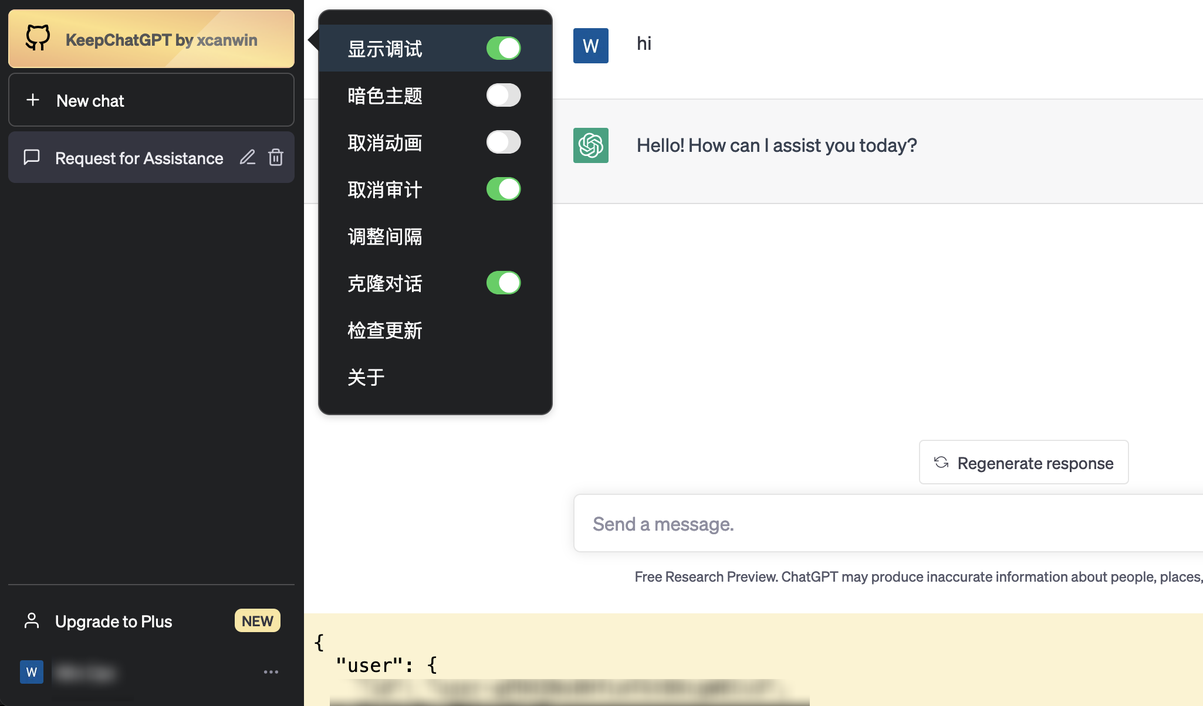
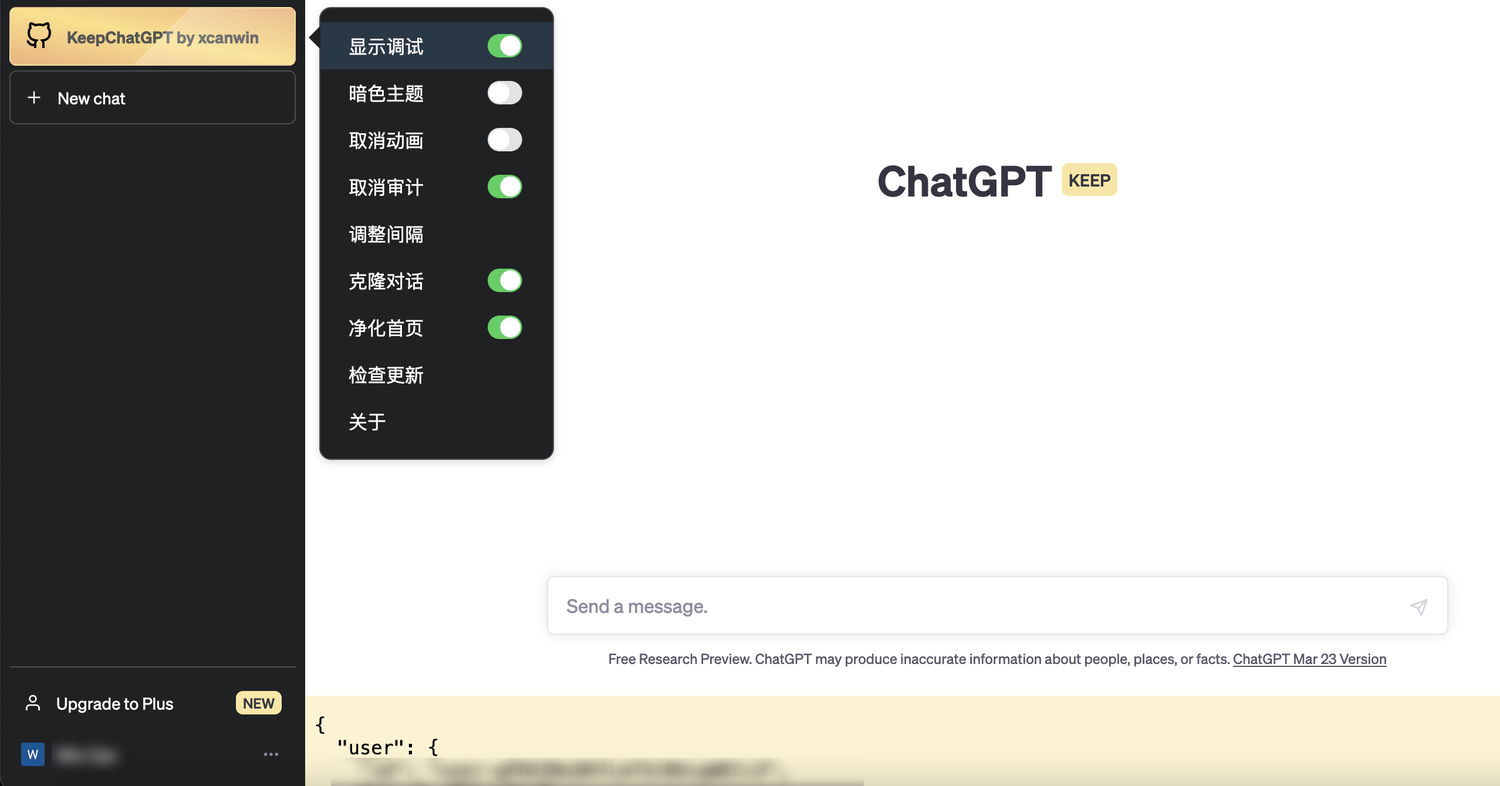
新增创新功能：净化首页

diff --git a/KeepChatGPT.user.js b/KeepChatGPT.user.js
@@ -1,7 +1,7 @@
 // ==UserScript==
 // @name              KeepChatGPT
 // @description       ChatGPT畅聊插件。解决所有报错，让我们的AI体验无比顺畅、丝滑、高效。持续更新的增强功能，如取消审计等。解决的报错如下: (1) NetworkError when attempting to fetch resource. (2) Something went wrong. If this issue persists please contact us through our help center at help.openai.com. (3) Conversation not found. (4) This content may violate our content policy.
-// @version           11.0
+// @version           11.1
 // @author            xcanwin
 // @namespace         https://github.com/xcanwin/KeepChatGPT/
 // @supportURL        https://github.com/xcanwin/KeepChatGPT/
@@ -64,43 +64,43 @@
     const getLang = function() {
         let lang = `
 {
-    "index": {"暗色主题": "dm", "显示调试": "sd", "取消审计": "cm", "取消动画": "ca", "关于": "ab", "建议间隔30秒": "si", "调整间隔": "mi", "检查更新": "cu", "当前版本": "cv", "发现最新版": "dl", "已是最新版": "lv", "克隆对话": "cc"},
+    "index": {"暗色主题": "dm", "显示调试": "sd", "取消审计": "cm", "取消动画": "ca", "关于": "ab", "建议间隔30秒": "si", "调整间隔": "mi", "检查更新": "cu", "当前版本": "cv", "发现最新版": "dl", "已是最新版": "lv", "克隆对话": "cc", "净化首页": "ch"},
     "local": {
-"ar": {"dm": "الوضع الداكن", "sd": "إظهار التصحيح", "cm": "إلغاء التدقيق", "ca": "إلغاء الرسوم المتحركة", "ab": "حول", "si": "اقتراح فاصل زمني 30 ثانية", "mi": "تعديل الفاصل", "cu": "التحقق من التحديثات", "cv": "الإصدار الحالي", "dl": "اكتشف أحدث إصدار", "lv": "أحدث إصدار", "cc": "استنساخ المحادثة"},
-"bg": {"dm": "Тъмна тема", "sd": "Показване на отстраняване на грешки", "cm": "Отказ от одит", "ca": "Отмяна на анимацията", "ab": "За", "si": "Предложете интервал от 30 секунди", "mi": "Промяна на интервала", "cu": "Проверка на актуализации", "cc": "Клониране на разговора"},
-"cs": {"dm": "Tmavý režim", "sd": "Zobrazit ladění", "cm": "Zrušení auditu", "ca": "Zrušit animaci", "ab": "O", "si": "Navrhnout interval 30 sekund", "mi": "Upravit interval", "cu": "Kontrola aktualizací", "cc": "Klonovat konverzaci"},
-"da": {"dm": "Mørk tilstand", "sd": "Vis fejlfinding", "cm": "Annuller revision", "ca": "Annuller animation", "ab": "Om", "si": "Forslag interval på 30 sekunder", "mi": "Ændre interval", "cu": "Tjek for opdateringer", "cc": "Klon samtalen"},
-"de": {"dm": "Dunkler Modus", "sd": "Fehlerbehebung anzeigen", "cm": "Prüfung abbrechen", "ca": "Animation abbrechen", "ab": "Über", "si": "Vorschlag für Intervall von 30 Sekunden", "mi": "Intervall bearbeiten", "cu": "Überprüfung auf Updates", "cv": "Aktuelle Version", "dl": "Entdecken Sie die neueste Version", "lv": "ist die neueste Version", "cc": "Konversation klonen"},
-"el": {"dm": "Σκοτεινή θεματολογία", "sd": "Εμφάνιση αποσφαλμάτωσης", "cm": "Ακύρωση ελέγχου", "ca": "Ακύρωση κινούμενων σχεδίων", "ab": "Σχετικά με", "si": "Προτείνετε διάστημα 30 δευτερολέπτων", "mi": "Τροποποίηση διαστήματος", "cu": "Έλεγχος ενημερώσεων", "cc": "Κλωνοποίηση συνομιλίας"},
-"en": {"dm": "Dark mode", "sd": "Show debugging", "cm": "Cancel audit", "ca": "Cancel animation", "ab": "About", "si": "Suggest interval of 30 seconds; The author usually sets 150", "mi": "Modify interval", "cu": "Check for updates", "cv": "Current version", "dl": "Discover the latest version", "lv": "is the latest version", "cc": "Clone conversation"},
-"eo": {"dm": "Malhela moduso", "sd": "Montri depuradon", "cm": "Nuligi kontroli", "ca": "Nuligi animacion", "ab": "Pri", "si": "Sugesti intervalon de 30 sekundoj", "mi": "Modifi intervalon", "cu": "Kontroli ĝisdatigojn", "cc": "Kloni konversacion"},
-"es": {"dm": "Modo oscuro", "sd": "Mostrar depuración", "cm": "Cancelar auditoría", "ca": "Cancelar animación", "ab": "Acerca de", "si": "Sugerir un intervalo de 30 segundos", "mi": "Modificar intervalo", "cu": "Comprobar actualizaciones", "cv": "Versión actual", "dl": "Descubre la última versión", "lv": "es la última versión", "cc": "Clonar conversación"},
-"fi": {"dm": "Tumma tila", "sd": "Näytä virheenkorjaus", "cm": "Peruuta tarkistus", "ca": "Peruuta animaatio", "ab": "Tietoa", "si": "Ehdota 30 sekunnin väliaikaa", "mi": "Muokkaa väliä", "cu": "Tarkista päivitykset", "cc": "Kloonaa keskustelu"},
-"fr": {"dm": "Mode sombre", "sd": "Afficher le débogage", "cm": "Annuler l'audit", "ca": "Annuler l'animation", "ab": "À propos de", "si": "Suggérer un intervalle de 30 secondes", "mi": "Modifier l'intervalle", "cu": "Vérifier les mises à jour", "cv": "Version actuelle", "dl": "Découvrir la dernière version", "lv": "est la dernière version", "cc": "Cloner la conversation"},
-"fr-CA": {"dm": "Mode nuit", "sd": "Afficher le débogage", "cm": "Annuler la vérification", "ca": "Annuler l'animation", "ab": "À propos de", "si": "Suggérer un intervalle de 30 secondes", "mi": "Modifier l'intervalle", "cu": "Vérifier les mises à jour", "cv": "Version actuelle", "dl": "Découvrir la dernière version", "lv": "est la dernière version", "cc": "Cloner la conversation"},
-"he": {"dm": "מצב כהה", "sd": "הצגת התיקון", "cm": "ביטול ביקורת", "ca": "בטל אנימציה", "ab": "אודות", "si": "הצע מרווח של 30 שניות", "mi": "שינוי מרווח", "cu": "בדיקת עדכונים", "cc": "שכפול שיחה"},
-"hu": {"dm": "Sötét mód", "sd": "Hibakeresés mutatása", "cm": "Ellenőrzés megszüntetése", "ca": "Animáció törlése", "ab": "Rólunk", "si": "Javaslat 30 másodperces időközre", "mi": "Időköz módosítása", "cu": "Frissítések keresése", "cc": "Beszélgetés klónozása"},
-"id": {"dm": "Mode gelap", "sd": "Tampilkan debugging", "cm": "Batalkan audit", "ca": "Batalkan animasi", "ab": "Tentang", "si": "Sarankan interval 30 detik", "mi": "Modifikasi interval", "cu": "Periksa Pembaruan", "cc": "Klon percakapan"},
-"it": {"dm": "Modalità scura", "sd": "Mostra debug", "cm": "Annulla verifica", "ca": "Annulla animazione", "ab": "Riguardo a", "si": "Suggerisci un intervallo di 30 secondi", "mi": "Modifica intervallo", "cu": "Verifica aggiornamenti", "cv": "Versione attuale", "dl": "Scopri l'ultima versione", "lv": "è l'ultima versione", "cc": "Clona conversazione"},
-"ja": {"dm": "ダークモード", "sd": "デバッグを表示", "cm": "監査をキャンセル", "ca": "アニメーションのキャンセル", "ab": "について", "si": "30秒間隔を提案する", "mi": "間隔を変更する", "cu": "更新をチェックする", "cv": "現在のバージョン", "dl": "最新バージョンを発見する", "lv": "最新バージョンです", "cc": "会話をクローンする"},
-"ka": {"dm": "ბნელი რეჟიმი", "sd": "გამოჩენა დებაგი", "cm": "ანულირება აუდიტი", "ca": "ანიმაციის გაუქმება", "ab": "შესახებ", "si": "30 წამის ინტერვალის შეტანა", "mi": "ინტერვალის შეცვლა", "cu": "განახლებების შემოწმება", "cc": "კონვერსაციის კლონირება"},
-"ko": {"dm": "다크 모드", "sd": "디버깅 표시", "cm": "감사 취소", "ca": "애니메이션 취소", "ab": "관하여", "si": "30초 간격 건의", "mi": "간격 수정", "cu": "업데이트 확인", "cv": "현재 버전", "dl": "최신 버전 찾기", "lv": "최신 버전입니다.", "cc": "대화 복제"},
-"nb": {"dm": "Mørk modus", "sd": "Vis feilsøking", "cm": "Avbryt revisjonen", "ca": "Avbryt animasjon", "ab": "Om", "si": "Forslag om et intervall på 30 sekunder", "mi": "Endre intervall", "cu": "Sjekk etter oppdateringer", "cc": "Klon samtalen"},
-"nl": {"dm": "Donkere modus", "sd": "Foutopsporing weergeven", "cm": "Controle annuleren", "ca": "Animatie annuleren", "ab": "Over", "si": "Stel een interval van 30 seconden voor", "mi": "Interval wijzigen", "cu": "Controleren op updates", "cc": "Gesprek klonen"},
-"pl": {"dm": "Tryb ciemny", "sd": "Pokaż debugowanie", "cm": "Anuluj audyt", "ca": "Anuluj animację", "ab": "O", "si": "Zasugeruj interwał 30 sekund", "mi": "Zmień interwał", "cu": "Sprawdź aktualizacje", "cc": "Klonuj rozmowę"},
-"pt-BR": {"dm": "Modo escuro", "sd": "Mostrar depuração", "cm": "Cancelar auditoria", "ca": "Cancelar animação", "ab": "Sobre", "si": "Sugira um intervalo de 30 segundos", "mi": "Modificar intervalo", "cu": "Verificar atualizações", "cc": "Clonar conversa"},
-"ro": {"dm": "Mod întunecat", "sd": "Afișare depanare", "cm": "Anulare audit", "ca": "Anulare animație", "ab": "Despre", "si": "Sugerați un interval de 30 secunde", "mi": "Modificați intervalul", "cu": "Verifică actualizări", "cc": "Clonează conversația"},
-"ru": {"dm": "Темный режим", "sd": "Показать отладку", "cm": "Отменить аудит", "ca": "Отменить анимацию", "ab": "О", "si": "Предложить интервал в 30 секунд", "mi": "Изменить интервал", "cu": "Проверить обновления", "cc": "Клонировать диалог"},
-"sk": {"dm": "Tmavý režim", "sd": "Zobraziť ladenie", "cm": "Zrušiť audit", "ca": "Zrušiť animáciu", "ab": "O", "si": "Navrhnúť interval 30 sekúnd", "mi": "Zmena intervalu", "cu": "Kontrola aktualizácií", "cc": "Klonovať konverzáciu"},
-"sr": {"dm": "Тамни режим", "sd": "Прикажи отклањање грешака", "cm": "Откажи ревизију", "ca": "Откажи анимацију", "ab": "О", "si": "Predložiti interval od 30 sekundi", "mi": "Измена интервала", "cu": "Provera ažuriranja", "cc": "Клонирај разговор"},
-"sv": {"dm": "Mörkt läge", "sd": "Visa felsökning", "cm": "Avbryt revision", "ca": "Avbryt animation", "ab": "Om", "si": "Föreslå intervall på 30 sekunder", "mi": "Ändra intervall", "cu": "Kontrollera uppdateringar", "cc": "Klonar samtal"},
-"th": {"dm": "โหมดมืด", "sd": "แสดงการแก้ไขข้อผิดพลาด", "cm": "ยกเลิกการตรวจสอบ", "ca": "ยกเลิกการเคลื่อนไหว", "ab": "เกี่ยวกับ", "si": "เสนอช่วงเวลา 30 วินาที", "mi": "แก้ไขระยะห่าง", "cu": "ตรวจสอบการอัปเดต", "cc": "โคลนสนทนา"},
-"tr": {"dm": "Karanlık mod", "sd": "Hata ayıklama göster", "cm": "Denetimi İptal Et", "ca": "Animasyonu iptal et", "ab": "Hakkında", "si": "30 saniyelik aralık önerin", "mi": "Aralığı değiştir", "cu": "Güncelleştirmeleri kontrol et", "cc": "Sohbeti kopyala"},
-"uk": {"dm": "Темний режим", "sd": "Показати налагодження", "cm": "Скасувати аудит", "ca": "Скасувати анімацію", "ab": "Про", "si": "Запропонуйте інтервал у 30 секунд", "mi": "Змінити інтервал", "cu": "Перевірити оновлення", "cc": "Клонувати діалог"},
-"ug": {"dm": "تېما كۆرسىتىش", "sd": "كۆرسەتكەن يۇقىرىلاش", "cm": "ئەمەلدىن قالدۇرۇش", "ca": "ئېنىماتىكىنى بىكار قىلىش", "ab": "ئۇچۇرلىق", "si": "30 سىكونتلىك ئارىلىقنى سۇنۇشتۇرۇش", "mi": "ئارىلىق ئۆزگەرتىش", "cu": "يېڭىلانما كۆزەت", "cc": "كۆپچەي ئىككىلىش"},
-"vi": {"dm": "Chế độ tối", "sd": "Hiển thị gỡ lỗi", "cm": "Hủy đánh giá", "ca": "Hủy hoạt hình", "ab": "Về", "si": "Đề xuất khoảng thời gian 30 giây", "mi": "Sửa khoảng cách", "cu": "Kiểm tra cập nhật", "cc": "Sao chép cuộc trò chuyện"},
-"zh-CN": {"dm": "暗色主题", "sd": "显示调试", "cm": "取消审计", "ca": "取消动画", "ab": "关于", "si": "建议间隔30秒以上，作者平时设置的是150", "mi": "调整间隔", "cu": "检查更新", "cc": "克隆对话"},
-"zh-TW": {"dm": "暗黑模式", "sd": "顯示調試", "cm": "取消稽核", "ca": "取消動畫", "ab": "關於", "si": "建議間隔30秒", "mi": "調整間隔", "cu": "檢查更新", "cc": "複製對話"}
+"ar": {"dm": "الوضع الداكن", "sd": "إظهار التصحيح", "cm": "إلغاء التدقيق", "ca": "إلغاء الرسوم المتحركة", "ab": "حول", "si": "اقتراح فاصل زمني 30 ثانية", "mi": "تعديل الفاصل", "cu": "التحقق من التحديثات", "cv": "الإصدار الحالي", "dl": "اكتشف أحدث إصدار", "lv": "أحدث إصدار", "cc": "استنساخ المحادثة", "ch": "تنقية الصفحة الرئيسية"},
+"bg": {"dm": "Тъмна тема", "sd": "Показване на отстраняване на грешки", "cm": "Отказ от одит", "ca": "Отмяна на анимацията", "ab": "За", "si": "Предложете интервал от 30 секунди", "mi": "Промяна на интервала", "cu": "Проверка на актуализации", "cc": "Клониране на разговора", "ch": "Почистване на началната страница"},
+"cs": {"dm": "Tmavý režim", "sd": "Zobrazit ladění", "cm": "Zrušení auditu", "ca": "Zrušit animaci", "ab": "O", "si": "Navrhnout interval 30 sekund", "mi": "Upravit interval", "cu": "Kontrola aktualizací", "cc": "Klonovat konverzaci", "ch": "Očistit domovskou stránku"},
+"da": {"dm": "Mørk tilstand", "sd": "Vis fejlfinding", "cm": "Annuller revision", "ca": "Annuller animation", "ab": "Om", "si": "Forslag interval på 30 sekunder", "mi": "Ændre interval", "cu": "Tjek for opdateringer", "cc": "Klon samtalen", "ch": "Rensning af startsiden"},
+"de": {"dm": "Dunkler Modus", "sd": "Fehlerbehebung anzeigen", "cm": "Prüfung abbrechen", "ca": "Animation abbrechen", "ab": "Über", "si": "Vorschlag für Intervall von 30 Sekunden", "mi": "Intervall bearbeiten", "cu": "Überprüfung auf Updates", "cv": "Aktuelle Version", "dl": "Entdecken Sie die neueste Version", "lv": "ist die neueste Version", "cc": "Konversation klonen", "ch": "Bereinigung der Startseite"},
+"el": {"dm": "Σκοτεινή θεματολογία", "sd": "Εμφάνιση αποσφαλμάτωσης", "cm": "Ακύρωση ελέγχου", "ca": "Ακύρωση κινούμενων σχεδίων", "ab": "Σχετικά με", "si": "Προτείνετε διάστημα 30 δευτερολέπτων", "mi": "Τροποποίηση διαστήματος", "cu": "Έλεγχος ενημερώσεων", "cc": "Κλωνοποίηση συνομιλίας", "ch": "Καθαρισμός αρχικής σελίδας"},
+"en": {"dm": "Dark mode", "sd": "Show debugging", "cm": "Cancel audit", "ca": "Cancel animation", "ab": "About", "si": "Suggest interval of 30 seconds; The author usually sets 150", "mi": "Modify interval", "cu": "Check for updates", "cv": "Current version", "dl": "Discover the latest version", "lv": "is the latest version", "cc": "Clone conversation", "ch": "Clean up the homepage"},
+"eo": {"dm": "Malhela moduso", "sd": "Montri depuradon", "cm": "Nuligi kontroli", "ca": "Nuligi animacion", "ab": "Pri", "si": "Sugesti intervalon de 30 sekundoj", "mi": "Modifi intervalon", "cu": "Kontroli ĝisdatigojn", "cc": "Kloni konversacion", "ch": "Purigi la hejmpaĝon"},
+"es": {"dm": "Modo oscuro", "sd": "Mostrar depuración", "cm": "Cancelar auditoría", "ca": "Cancelar animación", "ab": "Acerca de", "si": "Sugerir un intervalo de 30 segundos", "mi": "Modificar intervalo", "cu": "Comprobar actualizaciones", "cv": "Versión actual", "dl": "Descubre la última versión", "lv": "es la última versión", "cc": "Clonar conversación", "ch": "Limpiar la página de inicio"},
+"fi": {"dm": "Tumma tila", "sd": "Näytä virheenkorjaus", "cm": "Peruuta tarkistus", "ca": "Peruuta animaatio", "ab": "Tietoa", "si": "Ehdota 30 sekunnin väliaikaa", "mi": "Muokkaa väliä", "cu": "Tarkista päivitykset", "cc": "Kloonaa keskustelu", "ch": "Puhdista aloitussivu"},
+"fr": {"dm": "Mode sombre", "sd": "Afficher le débogage", "cm": "Annuler l'audit", "ca": "Annuler l'animation", "ab": "À propos de", "si": "Suggérer un intervalle de 30 secondes", "mi": "Modifier l'intervalle", "cu": "Vérifier les mises à jour", "cv": "Version actuelle", "dl": "Découvrir la dernière version", "lv": "est la dernière version", "cc": "Cloner la conversation", "ch": "Nettoyer la page d'accueil"},
+"fr-CA": {"dm": "Mode nuit", "sd": "Afficher le débogage", "cm": "Annuler la vérification", "ca": "Annuler l'animation", "ab": "À propos de", "si": "Suggérer un intervalle de 30 secondes", "mi": "Modifier l'intervalle", "cu": "Vérifier les mises à jour", "cv": "Version actuelle", "dl": "Découvrir la dernière version", "lv": "est la dernière version", "cc": "Cloner la conversation", "ch": "Nettoyer la page d'accueil"},
+"he": {"dm": "מצב כהה", "sd": "הצגת התיקון", "cm": "ביטול ביקורת", "ca": "בטל אנימציה", "ab": "אודות", "si": "הצע מרווח של 30 שניות", "mi": "שינוי מרווח", "cu": "בדיקת עדכונים", "cc": "שכפול שיחה", "ch": "ניקוי דף הבית"},
+"hu": {"dm": "Sötét mód", "sd": "Hibakeresés mutatása", "cm": "Ellenőrzés megszüntetése", "ca": "Animáció törlése", "ab": "Rólunk", "si": "Javaslat 30 másodperces időközre", "mi": "Időköz módosítása", "cu": "Frissítések keresése", "cc": "Beszélgetés klónozása", "ch": "Honlap tisztítása"},
+"id": {"dm": "Mode gelap", "sd": "Tampilkan debugging", "cm": "Batalkan audit", "ca": "Batalkan animasi", "ab": "Tentang", "si": "Sarankan interval 30 detik", "mi": "Modifikasi interval", "cu": "Periksa Pembaruan", "cc": "Klon percakapan", "ch": "Bersihkan halaman utama"},
+"it": {"dm": "Modalità scura", "sd": "Mostra debug", "cm": "Annulla verifica", "ca": "Annulla animazione", "ab": "Riguardo a", "si": "Suggerisci un intervallo di 30 secondi", "mi": "Modifica intervallo", "cu": "Verifica aggiornamenti", "cv": "Versione attuale", "dl": "Scopri l'ultima versione", "lv": "è l'ultima versione", "cc": "Clona conversazione", "ch": "Pulisci la homepage"},
+"ja": {"dm": "ダークモード", "sd": "デバッグを表示", "cm": "監査をキャンセル", "ca": "アニメーションのキャンセル", "ab": "について", "si": "30秒間隔を提案する", "mi": "間隔を変更する", "cu": "更新をチェックする", "cv": "現在のバージョン", "dl": "最新バージョンを発見する", "lv": "最新バージョンです", "cc": "会話をクローンする", "ch": "ホームページのクリーンアップ"},
+"ka": {"dm": "ბნელი რეჟიმი", "sd": "გამოჩენა დებაგი", "cm": "ანულირება აუდიტი", "ca": "ანიმაციის გაუქმება", "ab": "შესახებ", "si": "30 წამის ინტერვალის შეტანა", "mi": "ინტერვალის შეცვლა", "cu": "განახლებების შემოწმება", "cc": "კონვერსაციის კლონირება", "ch": "მთავარი გვერდის გაწმენდა"},
+"ko": {"dm": "다크 모드", "sd": "디버깅 표시", "cm": "감사 취소", "ca": "애니메이션 취소", "ab": "관하여", "si": "30초 간격 건의", "mi": "간격 수정", "cu": "업데이트 확인", "cv": "현재 버전", "dl": "최신 버전 찾기", "lv": "최신 버전입니다.", "cc": "대화 복제", "ch": "홈페이지 정리"},
+"nb": {"dm": "Mørk modus", "sd": "Vis feilsøking", "cm": "Avbryt revisjonen", "ca": "Avbryt animasjon", "ab": "Om", "si": "Forslag om et intervall på 30 sekunder", "mi": "Endre intervall", "cu": "Sjekk etter oppdateringer", "cc": "Klon samtalen", "ch": "Rydd opp på startsiden"},
+"nl": {"dm": "Donkere modus", "sd": "Foutopsporing weergeven", "cm": "Controle annuleren", "ca": "Animatie annuleren", "ab": "Over", "si": "Stel een interval van 30 seconden voor", "mi": "Interval wijzigen", "cu": "Controleren op updates", "cc": "Gesprek klonen", "ch": "Maak de homepage schoon"},
+"pl": {"dm": "Tryb ciemny", "sd": "Pokaż debugowanie", "cm": "Anuluj audyt", "ca": "Anuluj animację", "ab": "O", "si": "Zasugeruj interwał 30 sekund", "mi": "Zmień interwał", "cu": "Sprawdź aktualizacje", "cc": "Klonuj rozmowę", "ch": "Wyczyść stronę główną"},
+"pt-BR": {"dm": "Modo escuro", "sd": "Mostrar depuração", "cm": "Cancelar auditoria", "ca": "Cancelar animação", "ab": "Sobre", "si": "Sugira um intervalo de 30 segundos", "mi": "Modificar intervalo", "cu": "Verificar atualizações", "cc": "Clonar conversa", "ch": "Limpar a página inicial"},
+"ro": {"dm": "Mod întunecat", "sd": "Afișare depanare", "cm": "Anulare audit", "ca": "Anulare animație", "ab": "Despre", "si": "Sugerați un interval de 30 secunde", "mi": "Modificați intervalul", "cu": "Verifică actualizări", "cc": "Clonează conversația", "ch": "Curățarea paginii de pornire"},
+"ru": {"dm": "Темный режим", "sd": "Показать отладку", "cm": "Отменить аудит", "ca": "Отменить анимацию", "ab": "О", "si": "Предложить интервал в 30 секунд", "mi": "Изменить интервал", "cu": "Проверить обновления", "cc": "Клонировать диалог", "ch": "Очистить главную страницу"},
+"sk": {"dm": "Tmavý režim", "sd": "Zobraziť ladenie", "cm": "Zrušiť audit", "ca": "Zrušiť animáciu", "ab": "O", "si": "Navrhnúť interval 30 sekúnd", "mi": "Zmena intervalu", "cu": "Kontrola aktualizácií", "cc": "Klonovať konverzáciu", "ch": "Čistenie úvodnej stránky"},
+"sr": {"dm": "Тамни режим", "sd": "Прикажи отклањање грешака", "cm": "Откажи ревизију", "ca": "Откажи анимацију", "ab": "О", "si": "Predložiti interval od 30 sekundi", "mi": "Измена интервала", "cu": "Provera ažuriranja", "cc": "Клонирај разговор", "ch": "Чишћење почетне странице"},
+"sv": {"dm": "Mörkt läge", "sd": "Visa felsökning", "cm": "Avbryt revision", "ca": "Avbryt animation", "ab": "Om", "si": "Föreslå intervall på 30 sekunder", "mi": "Ändra intervall", "cu": "Kontrollera uppdateringar", "cc": "Klonar samtal", "ch": "Rensa upp på startsidan"},
+"th": {"dm": "โหมดมืด", "sd": "แสดงการแก้ไขข้อผิดพลาด", "cm": "ยกเลิกการตรวจสอบ", "ca": "ยกเลิกการเคลื่อนไหว", "ab": "เกี่ยวกับ", "si": "เสนอช่วงเวลา 30 วินาที", "mi": "แก้ไขระยะห่าง", "cu": "ตรวจสอบการอัปเดต", "cc": "โคลนสนทนา", "ch": "ทำความสะอาดโฮมเพจ"},
+"tr": {"dm": "Karanlık mod", "sd": "Hata ayıklama göster", "cm": "Denetimi İptal Et", "ca": "Animasyonu iptal et", "ab": "Hakkında", "si": "30 saniyelik aralık önerin", "mi": "Aralığı değiştir", "cu": "Güncelleştirmeleri kontrol et", "cc": "Sohbeti kopyala", "ch": "Ana sayfayı temizle"},
+"uk": {"dm": "Темний режим", "sd": "Показати налагодження", "cm": "Скасувати аудит", "ca": "Скасувати анімацію", "ab": "Про", "si": "Запропонуйте інтервал у 30 секунд", "mi": "Змінити інтервал", "cu": "Перевірити оновлення", "cc": "Клонувати діалог", "ch": "Очистити домашню сторінку"},
+"ug": {"dm": "تېما كۆرسىتىش", "sd": "كۆرسەتكەن يۇقىرىلاش", "cm": "ئەمەلدىن قالدۇرۇش", "ca": "ئېنىماتىكىنى بىكار قىلىش", "ab": "ئۇچۇرلىق", "si": "30 سىكونتلىك ئارىلىقنى سۇنۇشتۇرۇش", "mi": "ئارىلىق ئۆزگەرتىش", "cu": "يېڭىلانما كۆزەت", "cc": "كۆپچەي ئىككىلىش", "ch": "ئۆز ئۇيۇشما بەتتىن تازىلاش"},
+"vi": {"dm": "Chế độ tối", "sd": "Hiển thị gỡ lỗi", "cm": "Hủy đánh giá", "ca": "Hủy hoạt hình", "ab": "Về", "si": "Đề xuất khoảng thời gian 30 giây", "mi": "Sửa khoảng cách", "cu": "Kiểm tra cập nhật", "cc": "Sao chép cuộc trò chuyện", "ch": "Dọn dẹp trang chủ"},
+"zh-CN": {"dm": "暗色主题", "sd": "显示调试", "cm": "取消审计", "ca": "取消动画", "ab": "关于", "si": "建议间隔30秒以上，作者平时设置的是150", "mi": "调整间隔", "cu": "检查更新", "cc": "克隆对话", "ch": "净化首页"},
+"zh-TW": {"dm": "暗黑模式", "sd": "顯示調試", "cm": "取消稽核", "ca": "取消動畫", "ab": "關於", "si": "建議間隔30秒", "mi": "調整間隔", "cu": "檢查更新", "cc": "複製對話", "ch": "淨化首頁"}
     }
 }
 `;
@@ -122,6 +122,7 @@
                 break;
             }
         }
+        //language = "en"; //debug
         return [lang.index, lang.local[language]];
     };
 
@@ -264,7 +265,19 @@
         }
         const ndivmenu = document.createElement('div');
         ndivmenu.setAttribute("class", "kmenu");
-        ndivmenu.innerHTML = `<ul><li id=nmenuid_sd>${tl("显示调试")}</li><li id=nmenuid_dm>${tl("暗色主题")}</li><li id=nmenuid_ca>${tl("取消动画")}</li><li id=nmenuid_cm>${tl("取消审计")}</li><li id=nmenuid_af>${tl("调整间隔")}</li><li id=nmenuid_cc>${tl("克隆对话")}</li><li id=nmenuid_cu>${tl("检查更新")}</li><li id=nmenuid_ab>${tl("关于")}</li></ul>`;
+        ndivmenu.innerHTML = `
+<ul>
+    <li id=nmenuid_sd>${tl("显示调试")}</li>
+    <li id=nmenuid_dm>${tl("暗色主题")}</li>
+    <li id=nmenuid_ca>${tl("取消动画")}</li>
+    <li id=nmenuid_cm>${tl("取消审计")}</li>
+    <li id=nmenuid_af>${tl("调整间隔")}</li>
+    <li id=nmenuid_cc>${tl("克隆对话")}</li>
+    <li id=nmenuid_ch>${tl("净化首页")}</li>
+    <li id=nmenuid_cu>${tl("检查更新")}</li>
+    <li id=nmenuid_ab>${tl("关于")}</li>
+</ul>
+`;
         document.body.appendChild(ndivmenu);
 
         $('#nmenuid_sd').appendChild(ncheckbox());
@@ -272,6 +285,7 @@
         $('#nmenuid_ca').appendChild(ncheckbox());
         $('#nmenuid_cm').appendChild(ncheckbox());
         $('#nmenuid_cc').appendChild(ncheckbox());
+        $('#nmenuid_ch').appendChild(ncheckbox());
 
         $('#nmenuid_sd').onclick = function() {
             if ($('.checkbutton', this).classList.contains('checked')) {
@@ -334,6 +348,15 @@
                 sv("k_clonechat", false);
             } else {
                 sv("k_clonechat", true);
+            }
+            $('.checkbutton', this).classList.toggle('checked');
+        };
+        $('#nmenuid_ch').onclick = function() {
+            toggleMenu('hide');
+            if ($('.checkbutton', this).classList.contains('checked')) {
+                sv("k_cleanlyhome", false);
+            } else {
+                sv("k_cleanlyhome", true);
             }
             $('.checkbutton', this).classList.toggle('checked');
         };
@@ -563,6 +586,10 @@ nav {
         if (gv("k_clonechat", false) === true) {
             $('#nmenuid_cc .checkbutton').classList.add('checked');
         }
+
+        if (gv("k_cleanlyhome", false) === true) {
+            $('#nmenuid_ch .checkbutton').classList.add('checked');
+        }
     };
 
     let byeModer = function(action) {
@@ -659,11 +686,25 @@ nav {
         });
     };
 
+    const cleanlyHome = function() {
+        if (location.href.match(/https:\/\/chat\.openai\.com\/\??/) && gv("k_cleanlyhome", false) === true) {
+            if ($("main h1") && $("main h1").parentElement.childNodes[1]) {
+                $("main h1").parentElement.childNodes[1].remove();
+                const nSpan = document.createElement('span');
+                nSpan.className = 'rounded-md bg-yellow-200 py-0.5 px-1.5 text-xs font-medium uppercase text-gray-800';
+                nSpan.style = 'font-size: 38%';
+                nSpan.textContent = 'KEEP';
+                $("main h1").appendChild(nSpan);
+            }
+        }
+    };
+
     const nInterval1Fun = function() {
         if ($(symbol1_class) || $(symbol2_class)) {
             loadKCG();
             cloneChat();
             tempFixOpenAI();
+            cleanlyHome();
         }
     };
 

diff --git a/kcg_i18n.py b/kcg_i18n.py
@@ -71,86 +71,86 @@ def print_json(lang):
 
 def main():
     lang = {
-    "index": {"暗色主题": "dm", "显示调试": "sd", "取消审计": "cm", "取消动画": "ca", "关于": "ab", "建议间隔30秒": "si", "调整间隔": "mi", "检查更新": "cu", "当前版本": "cv", "发现最新版": "dl", "已是最新版": "lv"},
+    "index": {"暗色主题": "dm", "显示调试": "sd", "取消审计": "cm", "取消动画": "ca", "关于": "ab", "建议间隔30秒": "si", "调整间隔": "mi", "检查更新": "cu", "当前版本": "cv", "发现最新版": "dl", "已是最新版": "lv", "克隆对话": "cc"},
     "local": {
-"ar": {"dm": "الوضع الداكن", "sd": "إظهار التصحيح", "cm": "إلغاء التدقيق", "ca": "إلغاء الرسوم المتحركة", "ab": "حول", "si": "اقتراح فاصل زمني 30 ثانية", "mi": "تعديل الفاصل", "cu": "التحقق من التحديثات", "cv": "الإصدار الحالي", "dl": "اكتشف أحدث إصدار", "lv": "أحدث إصدار"},
-"bg": {"dm": "Тъмна тема", "sd": "Показване на отстраняване на грешки", "cm": "Отказ от одит", "ca": "Отмяна на анимацията", "ab": "За", "si": "Предложете интервал от 30 секунди", "mi": "Промяна на интервала", "cu": "Проверка на актуализации"},
-"cs": {"dm": "Tmavý režim", "sd": "Zobrazit ladění", "cm": "Zrušení auditu", "ca": "Zrušit animaci", "ab": "O", "si": "Navrhnout interval 30 sekund", "mi": "Upravit interval", "cu": "Kontrola aktualizací"},
-"da": {"dm": "Mørk tilstand", "sd": "Vis fejlfinding", "cm": "Annuller revision", "ca": "Annuller animation", "ab": "Om", "si": "Forslag interval på 30 sekunder", "mi": "Ændre interval", "cu": "Tjek for opdateringer"},
-"de": {"dm": "Dunkler Modus", "sd": "Fehlerbehebung anzeigen", "cm": "Prüfung abbrechen", "ca": "Animation abbrechen", "ab": "Über", "si": "Vorschlag für Intervall von 30 Sekunden", "mi": "Intervall bearbeiten", "cu": "Überprüfung auf Updates", "cv": "Aktuelle Version", "dl": "Entdecken Sie die neueste Version", "lv": "ist die neueste Version"},
-"el": {"dm": "Σκοτεινή θεματολογία", "sd": "Εμφάνιση αποσφαλμάτωσης", "cm": "Ακύρωση ελέγχου", "ca": "Ακύρωση κινούμενων σχεδίων", "ab": "Σχετικά με", "si": "Προτείνετε διάστημα 30 δευτερολέπτων", "mi": "Τροποποίηση διαστήματος", "cu": "Έλεγχος ενημερώσεων"},
-"en": {"dm": "Dark mode", "sd": "Show debugging", "cm": "Cancel audit", "ca": "Cancel animation", "ab": "About", "si": "Suggest interval of 30 seconds; The author usually sets 150", "mi": "Modify interval", "cu": "Check for updates", "cv": "Current version", "dl": "Discover the latest version", "lv": "is the latest version"},
-"eo": {"dm": "Malhela moduso", "sd": "Montri depuradon", "cm": "Nuligi kontroli", "ca": "Nuligi animacion", "ab": "Pri", "si": "Sugesti intervalon de 30 sekundoj", "mi": "Modifi intervalon", "cu": "Kontroli ĝisdatigojn"},
-"es": {"dm": "Modo oscuro", "sd": "Mostrar depuración", "cm": "Cancelar auditoría", "ca": "Cancelar animación", "ab": "Acerca de", "si": "Sugerir un intervalo de 30 segundos", "mi": "Modificar intervalo", "cu": "Comprobar actualizaciones", "cv": "Versión actual", "dl": "Descubre la última versión", "lv": "es la última versión"},
-"fi": {"dm": "Tumma tila", "sd": "Näytä virheenkorjaus", "cm": "Peruuta tarkistus", "ca": "Peruuta animaatio", "ab": "Tietoa", "si": "Ehdota 30 sekunnin väliaikaa", "mi": "Muokkaa väliä", "cu": "Tarkista päivitykset"},
-"fr": {"dm": "Mode sombre", "sd": "Afficher le débogage", "cm": "Annuler l'audit", "ca": "Annuler l'animation", "ab": "À propos de", "si": "Suggérer un intervalle de 30 secondes", "mi": "Modifier l'intervalle", "cu": "Vérifier les mises à jour", "cv": "Version actuelle", "dl": "Découvrir la dernière version", "lv": "est la dernière version"},
-"fr-CA": {"dm": "Mode nuit", "sd": "Afficher le débogage", "cm": "Annuler la vérification", "ca": "Annuler l'animation", "ab": "À propos de", "si": "Suggérer un intervalle de 30 secondes", "mi": "Modifier l'intervalle", "cu": "Vérifier les mises à jour", "cv": "Version actuelle", "dl": "Découvrir la dernière version", "lv": "est la dernière version"},
-"he": {"dm": "מצב כהה", "sd": "הצגת התיקון", "cm": "ביטול ביקורת", "ca": "בטל אנימציה", "ab": "אודות", "si": "הצע מרווח של 30 שניות", "mi": "שינוי מרווח", "cu": "בדיקת עדכונים"},
-"hu": {"dm": "Sötét mód", "sd": "Hibakeresés mutatása", "cm": "Ellenőrzés megszüntetése", "ca": "Animáció törlése", "ab": "Rólunk", "si": "Javaslat 30 másodperces időközre", "mi": "Időköz módosítása", "cu": "Frissítések keresése"},
-"id": {"dm": "Mode gelap", "sd": "Tampilkan debugging", "cm": "Batalkan audit", "ca": "Batalkan animasi", "ab": "Tentang", "si": "Sarankan interval 30 detik", "mi": "Modifikasi interval", "cu": "Periksa Pembaruan"},
-"it": {"dm": "Modalità scura", "sd": "Mostra debug", "cm": "Annulla verifica", "ca": "Annulla animazione", "ab": "Riguardo a", "si": "Suggerisci un intervallo di 30 secondi", "mi": "Modifica intervallo", "cu": "Verifica aggiornamenti", "cv": "Versione attuale", "dl": "Scopri l'ultima versione", "lv": "è l'ultima versione"},
-"ja": {"dm": "ダークモード", "sd": "デバッグを表示", "cm": "監査をキャンセル", "ca": "アニメーションのキャンセル", "ab": "について", "si": "30秒間隔を提案する", "mi": "間隔を変更する", "cu": "更新をチェックする", "cv": "現在のバージョン", "dl": "最新バージョンを発見する", "lv": "最新バージョンです"},
-"ka": {"dm": "ბნელი რეჟიმი", "sd": "გამოჩენა დებაგი", "cm": "ანულირება აუდიტი", "ca": "ანიმაციის გაუქმება", "ab": "შესახებ", "si": "30 წამის ინტერვალის შეტანა", "mi": "ინტერვალის შეცვლა", "cu": "განახლებების შემოწმება"},
-"ko": {"dm": "다크 모드", "sd": "디버깅 표시", "cm": "감사 취소", "ca": "애니메이션 취소", "ab": "관하여", "si": "30초 간격 건의", "mi": "간격 수정", "cu": "업데이트 확인", "cv": "현재 버전", "dl": "최신 버전 찾기", "lv": "최신 버전입니다."},
-"nb": {"dm": "Mørk modus", "sd": "Vis feilsøking", "cm": "Avbryt revisjonen", "ca": "Avbryt animasjon", "ab": "Om", "si": "Forslag om et intervall på 30 sekunder", "mi": "Endre intervall", "cu": "Sjekk etter oppdateringer"},
-"nl": {"dm": "Donkere modus", "sd": "Foutopsporing weergeven", "cm": "Controle annuleren", "ca": "Animatie annuleren", "ab": "Over", "si": "Stel een interval van 30 seconden voor", "mi": "Interval wijzigen", "cu": "Controleren op updates"},
-"pl": {"dm": "Tryb ciemny", "sd": "Pokaż debugowanie", "cm": "Anuluj audyt", "ca": "Anuluj animację", "ab": "O", "si": "Zasugeruj interwał 30 sekund", "mi": "Zmień interwał", "cu": "Sprawdź aktualizacje"},
-"pt-BR": {"dm": "Modo escuro", "sd": "Mostrar depuração", "cm": "Cancelar auditoria", "ca": "Cancelar animação", "ab": "Sobre", "si": "Sugira um intervalo de 30 segundos", "mi": "Modificar intervalo", "cu": "Verificar atualizações"},
-"ro": {"dm": "Mod întunecat", "sd": "Afișare depanare", "cm": "Anulare audit", "ca": "Anulare animație", "ab": "Despre", "si": "Sugerați un interval de 30 secunde", "mi": "Modificați intervalul", "cu": "Verifică actualizări"},
-"ru": {"dm": "Темный режим", "sd": "Показать отладку", "cm": "Отменить аудит", "ca": "Отменить анимацию", "ab": "О", "si": "Предложить интервал в 30 секунд", "mi": "Изменить интервал", "cu": "Проверить обновления"},
-"sk": {"dm": "Tmavý režim", "sd": "Zobraziť ladenie", "cm": "Zrušiť audit", "ca": "Zrušiť animáciu", "ab": "O", "si": "Navrhnúť interval 30 sekúnd", "mi": "Zmena intervalu", "cu": "Kontrola aktualizácií"},
-"sr": {"dm": "Тамни режим", "sd": "Прикажи отклањање грешака", "cm": "Откажи ревизију", "ca": "Откажи анимацију", "ab": "О", "si": "Predložiti interval od 30 sekundi", "mi": "Измена интервала", "cu": "Provera ažuriranja"},
-"sv": {"dm": "Mörkt läge", "sd": "Visa felsökning", "cm": "Avbryt revision", "ca": "Avbryt animation", "ab": "Om", "si": "Föreslå intervall på 30 sekunder", "mi": "Ändra intervall", "cu": "Kontrollera uppdateringar"},
-"th": {"dm": "โหมดมืด", "sd": "แสดงการแก้ไขข้อผิดพลาด", "cm": "ยกเลิกการตรวจสอบ", "ca": "ยกเลิกการเคลื่อนไหว", "ab": "เกี่ยวกับ", "si": "เสนอช่วงเวลา 30 วินาที", "mi": "แก้ไขระยะห่าง", "cu": "ตรวจสอบการอัปเดต"},
-"tr": {"dm": "Karanlık mod", "sd": "Hata ayıklama göster", "cm": "Denetimi İptal Et", "ca": "Animasyonu iptal et", "ab": "Hakkında", "si": "30 saniyelik aralık önerin", "mi": "Aralığı değiştir", "cu": "Güncelleştirmeleri kontrol et"},
-"uk": {"dm": "Темний режим", "sd": "Показати налагодження", "cm": "Скасувати аудит", "ca": "Скасувати анімацію", "ab": "Про", "si": "Запропонуйте інтервал у 30 секунд", "mi": "Змінити інтервал", "cu": "Перевірити оновлення"},
-"ug": {"dm": "تېما كۆرسىتىش", "sd": "كۆرسەتكەن يۇقىرىلاش", "cm": "ئەمەلدىن قالدۇرۇش", "ca": "ئېنىماتىكىنى بىكار قىلىش", "ab": "ئۇچۇرلىق", "si": "30 سىكونتلىك ئارىلىقنى سۇنۇشتۇرۇش", "mi": "ئارىلىق ئۆزگەرتىش", "cu": "يېڭىلانما كۆزەت"},
-"vi": {"dm": "Chế độ tối", "sd": "Hiển thị gỡ lỗi", "cm": "Hủy đánh giá", "ca": "Hủy hoạt hình", "ab": "Về", "si": "Đề xuất khoảng thời gian 30 giây", "mi": "Sửa khoảng cách", "cu": "Kiểm tra cập nhật"},
-"zh-CN": {"dm": "暗色主题", "sd": "显示调试", "cm": "取消审计", "ca": "取消动画", "ab": "关于", "si": "建议间隔30秒以上，作者平时设置的是150", "mi": "调整间隔", "cu": "检查更新"},
-"zh-TW": {"dm": "暗黑模式", "sd": "顯示調試", "cm": "取消稽核", "ca": "取消動畫", "ab": "關於", "si": "建議間隔30秒", "mi": "調整間隔", "cu": "檢查更新"}
+"ar": {"dm": "الوضع الداكن", "sd": "إظهار التصحيح", "cm": "إلغاء التدقيق", "ca": "إلغاء الرسوم المتحركة", "ab": "حول", "si": "اقتراح فاصل زمني 30 ثانية", "mi": "تعديل الفاصل", "cu": "التحقق من التحديثات", "cv": "الإصدار الحالي", "dl": "اكتشف أحدث إصدار", "lv": "أحدث إصدار", "cc": "استنساخ المحادثة"},
+"bg": {"dm": "Тъмна тема", "sd": "Показване на отстраняване на грешки", "cm": "Отказ от одит", "ca": "Отмяна на анимацията", "ab": "За", "si": "Предложете интервал от 30 секунди", "mi": "Промяна на интервала", "cu": "Проверка на актуализации", "cc": "Клониране на разговора"},
+"cs": {"dm": "Tmavý režim", "sd": "Zobrazit ladění", "cm": "Zrušení auditu", "ca": "Zrušit animaci", "ab": "O", "si": "Navrhnout interval 30 sekund", "mi": "Upravit interval", "cu": "Kontrola aktualizací", "cc": "Klonovat konverzaci"},
+"da": {"dm": "Mørk tilstand", "sd": "Vis fejlfinding", "cm": "Annuller revision", "ca": "Annuller animation", "ab": "Om", "si": "Forslag interval på 30 sekunder", "mi": "Ændre interval", "cu": "Tjek for opdateringer", "cc": "Klon samtalen"},
+"de": {"dm": "Dunkler Modus", "sd": "Fehlerbehebung anzeigen", "cm": "Prüfung abbrechen", "ca": "Animation abbrechen", "ab": "Über", "si": "Vorschlag für Intervall von 30 Sekunden", "mi": "Intervall bearbeiten", "cu": "Überprüfung auf Updates", "cv": "Aktuelle Version", "dl": "Entdecken Sie die neueste Version", "lv": "ist die neueste Version", "cc": "Konversation klonen"},
+"el": {"dm": "Σκοτεινή θεματολογία", "sd": "Εμφάνιση αποσφαλμάτωσης", "cm": "Ακύρωση ελέγχου", "ca": "Ακύρωση κινούμενων σχεδίων", "ab": "Σχετικά με", "si": "Προτείνετε διάστημα 30 δευτερολέπτων", "mi": "Τροποποίηση διαστήματος", "cu": "Έλεγχος ενημερώσεων", "cc": "Κλωνοποίηση συνομιλίας"},
+"en": {"dm": "Dark mode", "sd": "Show debugging", "cm": "Cancel audit", "ca": "Cancel animation", "ab": "About", "si": "Suggest interval of 30 seconds; The author usually sets 150", "mi": "Modify interval", "cu": "Check for updates", "cv": "Current version", "dl": "Discover the latest version", "lv": "is the latest version", "cc": "Clone conversation"},
+"eo": {"dm": "Malhela moduso", "sd": "Montri depuradon", "cm": "Nuligi kontroli", "ca": "Nuligi animacion", "ab": "Pri", "si": "Sugesti intervalon de 30 sekundoj", "mi": "Modifi intervalon", "cu": "Kontroli ĝisdatigojn", "cc": "Kloni konversacion"},
+"es": {"dm": "Modo oscuro", "sd": "Mostrar depuración", "cm": "Cancelar auditoría", "ca": "Cancelar animación", "ab": "Acerca de", "si": "Sugerir un intervalo de 30 segundos", "mi": "Modificar intervalo", "cu": "Comprobar actualizaciones", "cv": "Versión actual", "dl": "Descubre la última versión", "lv": "es la última versión", "cc": "Clonar conversación"},
+"fi": {"dm": "Tumma tila", "sd": "Näytä virheenkorjaus", "cm": "Peruuta tarkistus", "ca": "Peruuta animaatio", "ab": "Tietoa", "si": "Ehdota 30 sekunnin väliaikaa", "mi": "Muokkaa väliä", "cu": "Tarkista päivitykset", "cc": "Kloonaa keskustelu"},
+"fr": {"dm": "Mode sombre", "sd": "Afficher le débogage", "cm": "Annuler l'audit", "ca": "Annuler l'animation", "ab": "À propos de", "si": "Suggérer un intervalle de 30 secondes", "mi": "Modifier l'intervalle", "cu": "Vérifier les mises à jour", "cv": "Version actuelle", "dl": "Découvrir la dernière version", "lv": "est la dernière version", "cc": "Cloner la conversation"},
+"fr-CA": {"dm": "Mode nuit", "sd": "Afficher le débogage", "cm": "Annuler la vérification", "ca": "Annuler l'animation", "ab": "À propos de", "si": "Suggérer un intervalle de 30 secondes", "mi": "Modifier l'intervalle", "cu": "Vérifier les mises à jour", "cv": "Version actuelle", "dl": "Découvrir la dernière version", "lv": "est la dernière version", "cc": "Cloner la conversation"},
+"he": {"dm": "מצב כהה", "sd": "הצגת התיקון", "cm": "ביטול ביקורת", "ca": "בטל אנימציה", "ab": "אודות", "si": "הצע מרווח של 30 שניות", "mi": "שינוי מרווח", "cu": "בדיקת עדכונים", "cc": "שכפול שיחה"},
+"hu": {"dm": "Sötét mód", "sd": "Hibakeresés mutatása", "cm": "Ellenőrzés megszüntetése", "ca": "Animáció törlése", "ab": "Rólunk", "si": "Javaslat 30 másodperces időközre", "mi": "Időköz módosítása", "cu": "Frissítések keresése", "cc": "Beszélgetés klónozása"},
+"id": {"dm": "Mode gelap", "sd": "Tampilkan debugging", "cm": "Batalkan audit", "ca": "Batalkan animasi", "ab": "Tentang", "si": "Sarankan interval 30 detik", "mi": "Modifikasi interval", "cu": "Periksa Pembaruan", "cc": "Klon percakapan"},
+"it": {"dm": "Modalità scura", "sd": "Mostra debug", "cm": "Annulla verifica", "ca": "Annulla animazione", "ab": "Riguardo a", "si": "Suggerisci un intervallo di 30 secondi", "mi": "Modifica intervallo", "cu": "Verifica aggiornamenti", "cv": "Versione attuale", "dl": "Scopri l'ultima versione", "lv": "è l'ultima versione", "cc": "Clona conversazione"},
+"ja": {"dm": "ダークモード", "sd": "デバッグを表示", "cm": "監査をキャンセル", "ca": "アニメーションのキャンセル", "ab": "について", "si": "30秒間隔を提案する", "mi": "間隔を変更する", "cu": "更新をチェックする", "cv": "現在のバージョン", "dl": "最新バージョンを発見する", "lv": "最新バージョンです", "cc": "会話をクローンする"},
+"ka": {"dm": "ბნელი რეჟიმი", "sd": "გამოჩენა დებაგი", "cm": "ანულირება აუდიტი", "ca": "ანიმაციის გაუქმება", "ab": "შესახებ", "si": "30 წამის ინტერვალის შეტანა", "mi": "ინტერვალის შეცვლა", "cu": "განახლებების შემოწმება", "cc": "კონვერსაციის კლონირება"},
+"ko": {"dm": "다크 모드", "sd": "디버깅 표시", "cm": "감사 취소", "ca": "애니메이션 취소", "ab": "관하여", "si": "30초 간격 건의", "mi": "간격 수정", "cu": "업데이트 확인", "cv": "현재 버전", "dl": "최신 버전 찾기", "lv": "최신 버전입니다.", "cc": "대화 복제"},
+"nb": {"dm": "Mørk modus", "sd": "Vis feilsøking", "cm": "Avbryt revisjonen", "ca": "Avbryt animasjon", "ab": "Om", "si": "Forslag om et intervall på 30 sekunder", "mi": "Endre intervall", "cu": "Sjekk etter oppdateringer", "cc": "Klon samtalen"},
+"nl": {"dm": "Donkere modus", "sd": "Foutopsporing weergeven", "cm": "Controle annuleren", "ca": "Animatie annuleren", "ab": "Over", "si": "Stel een interval van 30 seconden voor", "mi": "Interval wijzigen", "cu": "Controleren op updates", "cc": "Gesprek klonen"},
+"pl": {"dm": "Tryb ciemny", "sd": "Pokaż debugowanie", "cm": "Anuluj audyt", "ca": "Anuluj animację", "ab": "O", "si": "Zasugeruj interwał 30 sekund", "mi": "Zmień interwał", "cu": "Sprawdź aktualizacje", "cc": "Klonuj rozmowę"},
+"pt-BR": {"dm": "Modo escuro", "sd": "Mostrar depuração", "cm": "Cancelar auditoria", "ca": "Cancelar animação", "ab": "Sobre", "si": "Sugira um intervalo de 30 segundos", "mi": "Modificar intervalo", "cu": "Verificar atualizações", "cc": "Clonar conversa"},
+"ro": {"dm": "Mod întunecat", "sd": "Afișare depanare", "cm": "Anulare audit", "ca": "Anulare animație", "ab": "Despre", "si": "Sugerați un interval de 30 secunde", "mi": "Modificați intervalul", "cu": "Verifică actualizări", "cc": "Clonează conversația"},
+"ru": {"dm": "Темный режим", "sd": "Показать отладку", "cm": "Отменить аудит", "ca": "Отменить анимацию", "ab": "О", "si": "Предложить интервал в 30 секунд", "mi": "Изменить интервал", "cu": "Проверить обновления", "cc": "Клонировать диалог"},
+"sk": {"dm": "Tmavý režim", "sd": "Zobraziť ladenie", "cm": "Zrušiť audit", "ca": "Zrušiť animáciu", "ab": "O", "si": "Navrhnúť interval 30 sekúnd", "mi": "Zmena intervalu", "cu": "Kontrola aktualizácií", "cc": "Klonovať konverzáciu"},
+"sr": {"dm": "Тамни режим", "sd": "Прикажи отклањање грешака", "cm": "Откажи ревизију", "ca": "Откажи анимацију", "ab": "О", "si": "Predložiti interval od 30 sekundi", "mi": "Измена интервала", "cu": "Provera ažuriranja", "cc": "Клонирај разговор"},
+"sv": {"dm": "Mörkt läge", "sd": "Visa felsökning", "cm": "Avbryt revision", "ca": "Avbryt animation", "ab": "Om", "si": "Föreslå intervall på 30 sekunder", "mi": "Ändra intervall", "cu": "Kontrollera uppdateringar", "cc": "Klonar samtal"},
+"th": {"dm": "โหมดมืด", "sd": "แสดงการแก้ไขข้อผิดพลาด", "cm": "ยกเลิกการตรวจสอบ", "ca": "ยกเลิกการเคลื่อนไหว", "ab": "เกี่ยวกับ", "si": "เสนอช่วงเวลา 30 วินาที", "mi": "แก้ไขระยะห่าง", "cu": "ตรวจสอบการอัปเดต", "cc": "โคลนสนทนา"},
+"tr": {"dm": "Karanlık mod", "sd": "Hata ayıklama göster", "cm": "Denetimi İptal Et", "ca": "Animasyonu iptal et", "ab": "Hakkında", "si": "30 saniyelik aralık önerin", "mi": "Aralığı değiştir", "cu": "Güncelleştirmeleri kontrol et", "cc": "Sohbeti kopyala"},
+"uk": {"dm": "Темний режим", "sd": "Показати налагодження", "cm": "Скасувати аудит", "ca": "Скасувати анімацію", "ab": "Про", "si": "Запропонуйте інтервал у 30 секунд", "mi": "Змінити інтервал", "cu": "Перевірити оновлення", "cc": "Клонувати діалог"},
+"ug": {"dm": "تېما كۆرسىتىش", "sd": "كۆرسەتكەن يۇقىرىلاش", "cm": "ئەمەلدىن قالدۇرۇش", "ca": "ئېنىماتىكىنى بىكار قىلىش", "ab": "ئۇچۇرلىق", "si": "30 سىكونتلىك ئارىلىقنى سۇنۇشتۇرۇش", "mi": "ئارىلىق ئۆزگەرتىش", "cu": "يېڭىلانما كۆزەت", "cc": "كۆپچەي ئىككىلىش"},
+"vi": {"dm": "Chế độ tối", "sd": "Hiển thị gỡ lỗi", "cm": "Hủy đánh giá", "ca": "Hủy hoạt hình", "ab": "Về", "si": "Đề xuất khoảng thời gian 30 giây", "mi": "Sửa khoảng cách", "cu": "Kiểm tra cập nhật", "cc": "Sao chép cuộc trò chuyện"},
+"zh-CN": {"dm": "暗色主题", "sd": "显示调试", "cm": "取消审计", "ca": "取消动画", "ab": "关于", "si": "建议间隔30秒以上，作者平时设置的是150", "mi": "调整间隔", "cu": "检查更新", "cc": "克隆对话"},
+"zh-TW": {"dm": "暗黑模式", "sd": "顯示調試", "cm": "取消稽核", "ca": "取消動畫", "ab": "關於", "si": "建議間隔30秒", "mi": "調整間隔", "cu": "檢查更新", "cc": "複製對話"}
     }
 }
 
-    new_str = "克隆对话"
+    new_str = "净化首页"
 
-    new_str_min = "cc"
+    new_str_min = "ch"
 
     transle_tmp = """
-ar: استنساخ المحادثة
-bg: Клониране на разговора
-cs: Klonovat konverzaci
-da: Klon samtalen
-de: Konversation klonen
-el: Κλωνοποίηση συνομιλίας
-en: Clone conversation
-eo: Kloni konversacion
-es: Clonar conversación
-fi: Kloonaa keskustelu
-fr: Cloner la conversation
-fr-CA: Cloner la conversation
-he: שכפול שיחה
-hu: Beszélgetés klónozása
-id: Klon percakapan
-it: Clona conversazione
-ja: 会話をクローンする
-ka: კონვერსაციის კლონირება
-ko: 대화 복제
-nb: Klon samtalen
-nl: Gesprek klonen
-pl: Klonuj rozmowę
-pt-BR: Clonar conversa
-ro: Clonează conversația
-ru: Клонировать диалог
-sk: Klonovať konverzáciu
-sr: Клонирај разговор
-sv: Klonar samtal
-th: โคลนสนทนา
-tr: Sohbeti kopyala
-uk: Клонувати діалог
-ug: كۆپچەي ئىككىلىش
-vi: Sao chép cuộc trò chuyện
-zh-CN: 克隆对话
-zh-TW: 複製對話
+ar: تنقية الصفحة الرئيسية
+bg: Почистване на началната страница
+cs: Očistit domovskou stránku
+da: Rensning af startsiden
+de: Bereinigung der Startseite
+el: Καθαρισμός αρχικής σελίδας
+en: Clean up the homepage
+eo: Purigi la hejmpaĝon
+es: Limpiar la página de inicio
+fi: Puhdista aloitussivu
+fr: Nettoyer la page d'accueil
+fr-CA: Nettoyer la page d'accueil
+he: ניקוי דף הבית
+hu: Honlap tisztítása
+id: Bersihkan halaman utama
+it: Pulisci la homepage
+ja: ホームページのクリーンアップ
+ka: მთავარი გვერდის გაწმენდა
+ko: 홈페이지 정리
+nb: Rydd opp på startsiden
+nl: Maak de homepage schoon
+pl: Wyczyść stronę główną
+pt-BR: Limpar a página inicial
+ro: Curățarea paginii de pornire
+ru: Очистить главную страницу
+sk: Čistenie úvodnej stránky
+sr: Чишћење почетне странице
+sv: Rensa upp på startsidan
+th: ทำความสะอาดโฮมเพจ
+tr: Ana sayfayı temizle
+uk: Очистити домашню сторінку
+ug: ئۆز ئۇيۇشما بەتتىن تازىلاش
+vi: Dọn dẹp trang chủ
+zh-CN: 净化首页
+zh-TW: 淨化首頁
 """
 
     # del_str = "调整频率"

diff --git a/README_CN.md b/README_CN.md
@@ -35,7 +35,8 @@
 10. 支持移动端([鸿蒙](#用法-鸿蒙系统)、[Android](#用法-鸿蒙系统)、[iOS](#用法-苹果系统))
 11. 支持自由地[调整时间间隔](#关于-调整间隔-功能)
 12. 支持[便捷地克隆并且无损地编辑指定对话](#关于-克隆对话-功能)
-13. 本文底部的[其他说明](#其他说明)，作者浅析了[为何会出现大规模地网络错误](#关于-为何会出现大规模地网络错误)、常见错误信息解决方案，以及功能详情
+13. 支持[净化首页](#关于-净化首页-功能)
+14. 本文底部的[其他说明](#其他说明)，作者浅析了[为何会出现大规模地网络错误](#关于-为何会出现大规模地网络错误)、常见错误信息解决方案，以及功能详情
 
 | 序号 | 使用```KeepChatGPT```插件以后再也不会出现以下场面 |
 | --- | --- |
@@ -179,6 +180,11 @@
 
 - 通过对比可知，足足省去5个多余的步骤，顺畅地聊天
 - 省去的步骤是成倍的，因为当你觉得调整后的对话还不错，但还不是非常满意，还需要进一步调整的时候，每调整一次，多余的步骤就要做一次，所以勾选```克隆对话```有利于提升效率。
+
+### 关于 净化首页 功能
+
+1. 对于普通用户，常常会看到ChatGPT首页```https://chat.openai.com/```堆积了满屏的无用的提示词。
+2. 勾选```净化首页```以后，可以让首页焕然一新，享受类似PLUS用户的金标，提升体验感。
 
 ### 关于 使用了本插件依然出现网络错误 的原因和解决方案
 
